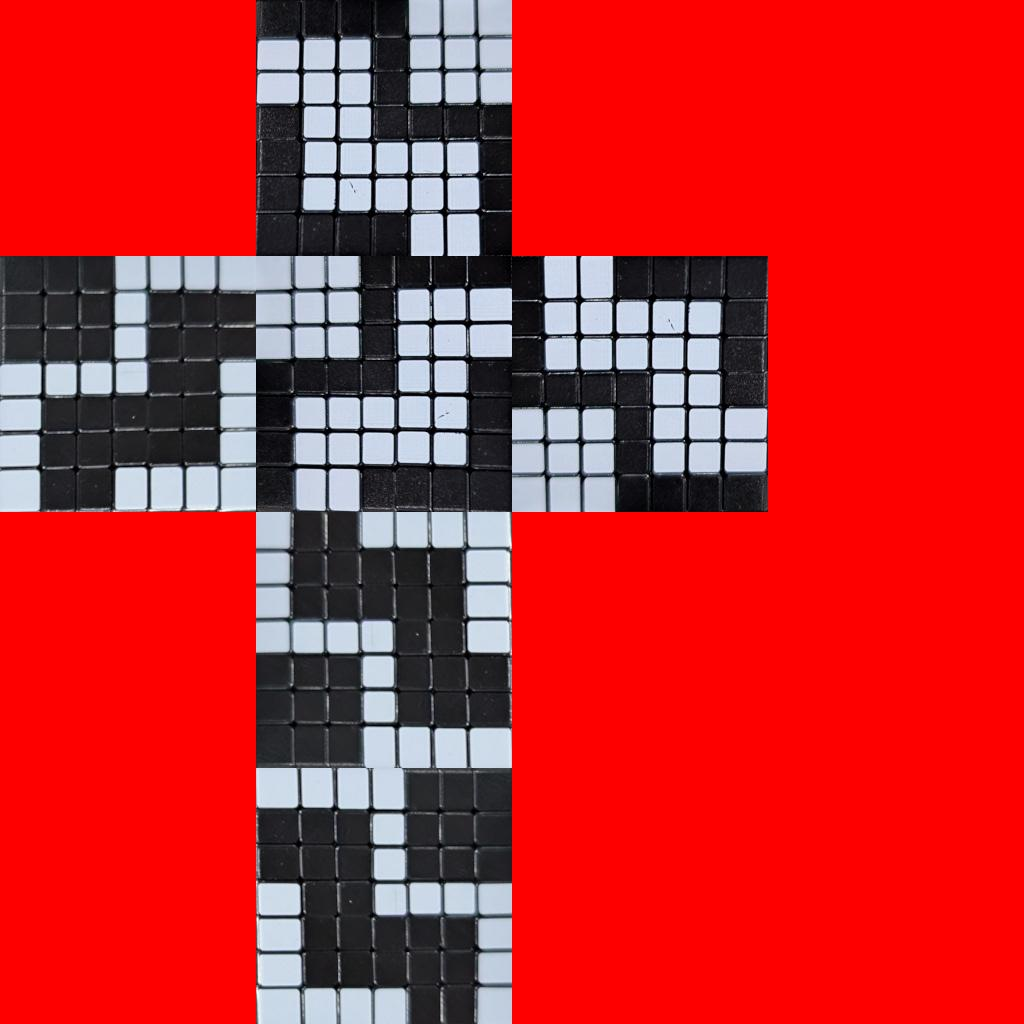
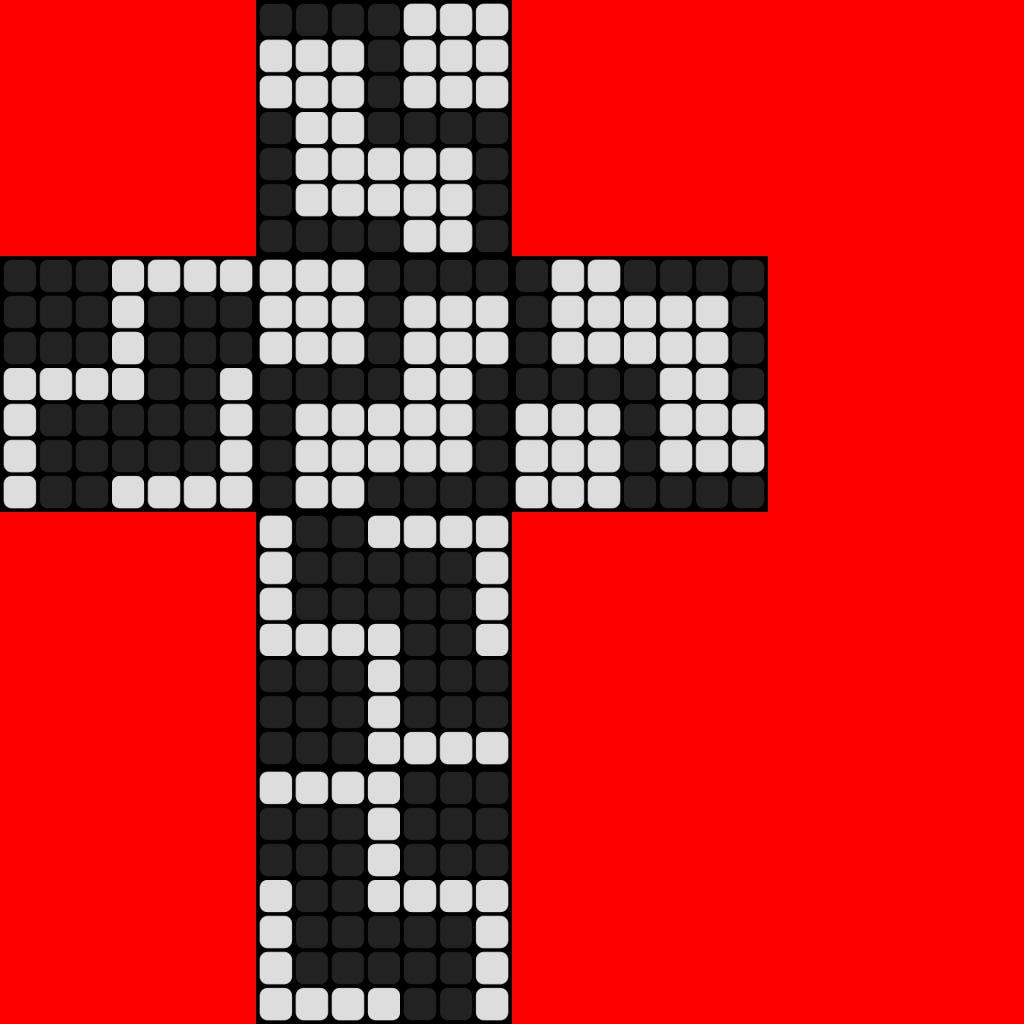
replace photos with rendered sides
uniform, and matches edges correctly
python required gamma correction

Changed region(s): [[0.0, 0.0, 0.75, 1.0]]

diff --git a/public/grid.html b/public/grid.html
@@ -1,0 +1,114 @@
+</script><script src="https://cdn.jsdelivr.net/npm/html2canvas@1.4.1/dist/html2canvas.min.js"></script>
+
+
+<style>
+  body {
+    background-color: black;
+  }
+  .grid-container {
+    background-color: black;
+    width: 256px;
+    height: 256px;
+    display: grid;
+    /* Create 7 equal-width columns */
+    grid-template-columns: repeat(7, 1fr);
+    /* 4px gutter between rows and columns */
+    gap: 4px;
+    padding: 4px; /* Optional: padding around the grid */
+  }
+
+  .grid-item {
+    background-color: #007bff; /* Color of rectangles */
+    /* Rounded corners */
+    border-radius: 8px;
+    /* Aspect ratio to keep them rectangular */
+    aspect-ratio: 16 / 16;
+  }
+
+  .w {
+     background-color: #dddddd; /* Color of rectangles */
+  }
+  .b {
+     background-color: #222222; /* Color of rectangles */
+  }
+</style>
+
+<div class="grid-container" id="capture">
+  <!-- Create 49 items (7x7) -->
+  <div class="grid-item w"></div>
+  <div class="grid-item w"></div>
+  <div class="grid-item w"></div>
+  <div class="grid-item b"></div>
+  <div class="grid-item b"></div>
+  <div class="grid-item b"></div>
+  <div class="grid-item b"></div>
+
+  <div class="grid-item w"></div>
+  <div class="grid-item w"></div>
+  <div class="grid-item w"></div>
+  <div class="grid-item b"></div>
+  <div class="grid-item w"></div>
+  <div class="grid-item w"></div>
+  <div class="grid-item w"></div>
+
+  <div class="grid-item w"></div>
+  <div class="grid-item w"></div>
+  <div class="grid-item w"></div>
+  <div class="grid-item b"></div>
+  <div class="grid-item w"></div>
+  <div class="grid-item w"></div>
+  <div class="grid-item w"></div>
+
+  <div class="grid-item b"></div>
+  <div class="grid-item b"></div>
+  <div class="grid-item b"></div>
+  <div class="grid-item b"></div>
+  <div class="grid-item w"></div>
+  <div class="grid-item w"></div>
+  <div class="grid-item b"></div>
+
+  <div class="grid-item b"></div>
+  <div class="grid-item w"></div>
+  <div class="grid-item w"></div>
+  <div class="grid-item w"></div>
+  <div class="grid-item w"></div>
+  <div class="grid-item w"></div>
+  <div class="grid-item b"></div>
+
+  <div class="grid-item b"></div>
+  <div class="grid-item w"></div>
+  <div class="grid-item w"></div>
+  <div class="grid-item w"></div>
+  <div class="grid-item w"></div>
+  <div class="grid-item w"></div>
+  <div class="grid-item b"></div>
+
+  <div class="grid-item b"></div>
+  <div class="grid-item w"></div>
+  <div class="grid-item w"></div>
+  <div class="grid-item b"></div>
+  <div class="grid-item b"></div>
+  <div class="grid-item b"></div>
+  <div class="grid-item b"></div>
+</div>
+<button id="downloadBtn">Download Image</button>
+
+<script>
+    document.getElementById('downloadBtn').addEventListener('click', function() {
+        const element = document.getElementById('capture');
+        html2canvas(element).then(canvas => {
+            // Convert the canvas to a data URL
+            const image = canvas.toDataURL('image/png', 1.0);
+            
+            // Create a temporary link element to trigger the download
+            const link = document.createElement('a');
+            link.download = 'my-div-image.png'; // Specify the file name
+            link.href = image;
+            
+            // Append link to body and click it to start download
+            document.body.appendChild(link);
+            link.click();
+            document.body.removeChild(link); // Clean up the link element
+        });
+    });
+</script>

diff --git a/main.py b/main.py
@@ -1,12 +1,26 @@
+import numpy as np
 import open3d as o3d
+import open3d.visualization.gui as gui
 import open3d.visualization.rendering as rendering
 
 
 def main():
 
+    app = gui.Application.instance.initialize()
+    w = gui.Application.instance.create_window("Open3D Point Light Example", 1024, 768)
+
+    scene_widget = gui.SceneWidget()
+    scene_widget.scene = rendering.Open3DScene(w.renderer)
+    w.add_child(scene_widget)
+
     material = rendering.MaterialRecord()
     material.shader = 'defaultUnlit'
-    material.albedo_img = o3d.io.read_image('images/python_map.jpeg')
+    img = o3d.io.read_image('images/python_map.jpeg')
+    img_np = np.asarray(img).astype(np.float32) / 255.0
+    gamma = 0.5
+    img_corrected = np.power(img_np, gamma)
+    img = o3d.geometry.Image((img_corrected * 255.0).astype(np.uint8))
+    material.albedo_img = img
 
     cube = o3d.geometry.TriangleMesh.create_box(create_uv_map=True)
     cube.compute_vertex_normals()
